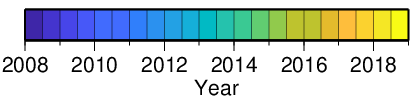
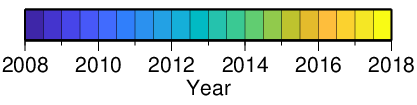
put in new colorbar for ross time, clean up the historical marker group

diff --git a/web/js/cfm_leaflet.js b/web/js/cfm_leaflet.js
@@ -383,7 +383,7 @@ function makeRectangleLayer(latA,lonA,latB,lonB) {
 }
 
 
-function makeLeafletMarker(bounds,cname,size) {
+function makeLeafletMarker(bounds,size) {
   var leafIcon = L.icon({
     iconUrl: 'img/star_icon.png',
     iconSize:     [10, 10], 
@@ -436,20 +436,12 @@ function addMarkerLayerGroup(latlng,description) {
   if(cnt < 1)
     return null;
   var markers=[];
-  var zoom=mymap.getZoom();
-  var sz=10;
   for(var i=0;i<cnt;i++) {
      var bounds = latlng[i];
      var desc = description[i];
 
-//     if(i< cnt/2) {
-     if(i) {
-       var cstr="quake-color-historical default-point-icon";
-       var marker=makeLeafletMarker(bounds,cstr,sz);
-       } else {
-          var marker=makeLeafletMarker2(bounds);
-     }
-
+  //   var cstr="quake-color-historical default-point-icon";
+     var marker=makeLeafletMarker(bounds,10);
      marker.bindTooltip(desc);
      markers.push(marker);
   }
